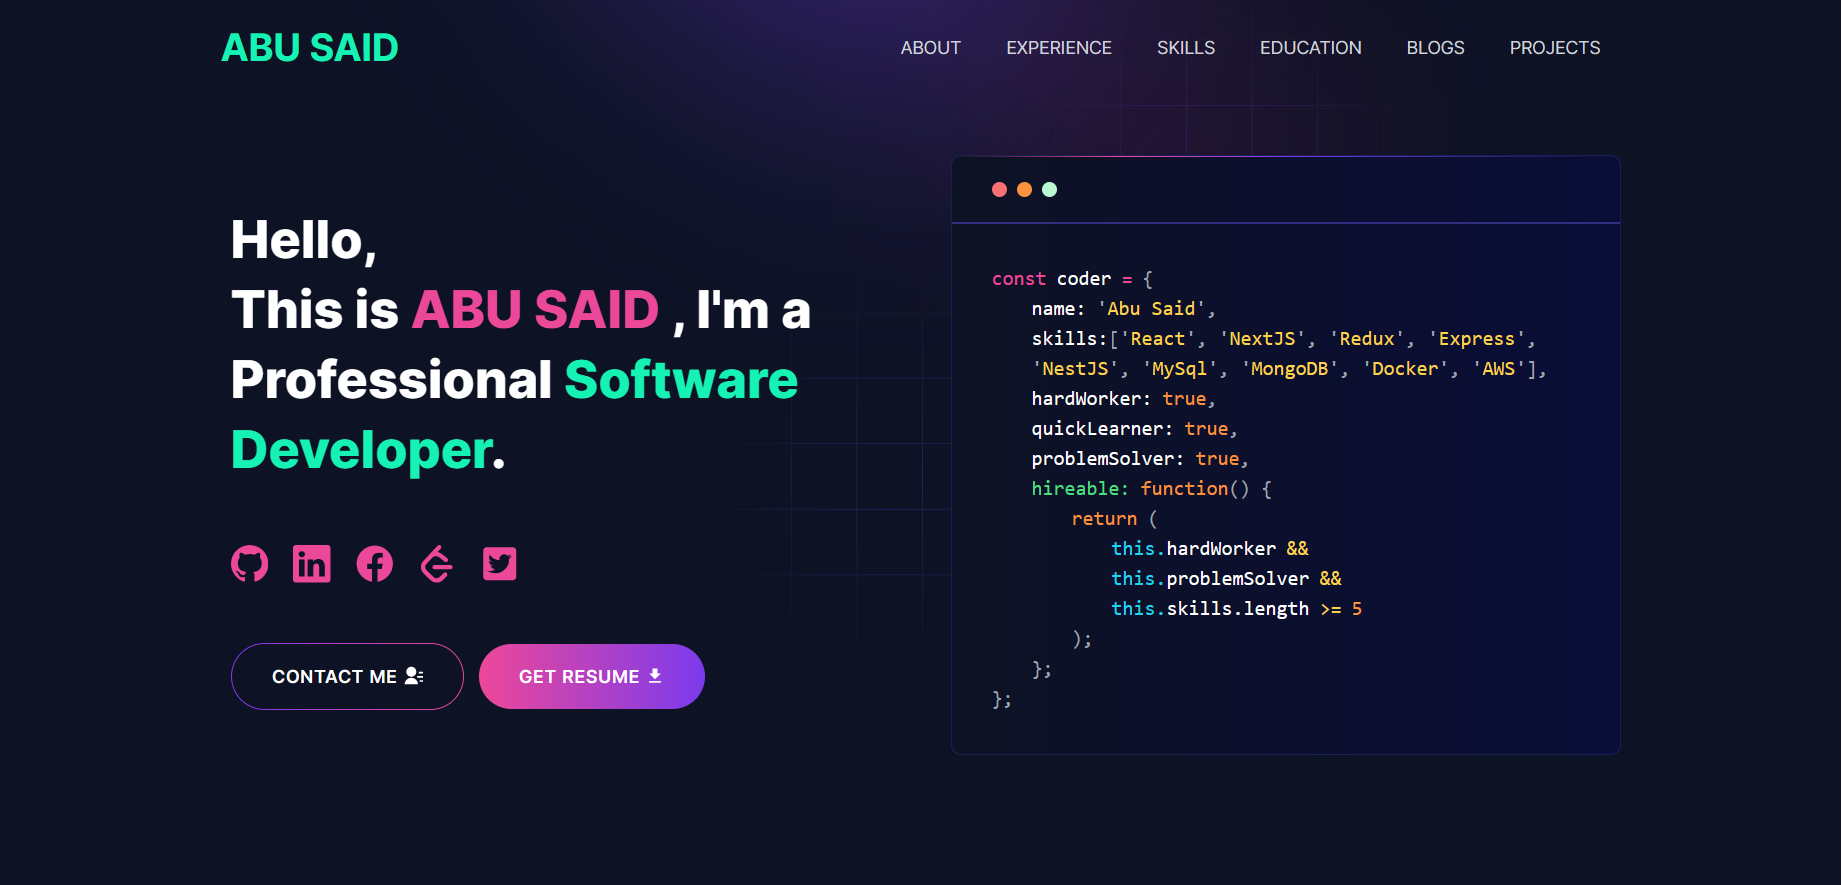
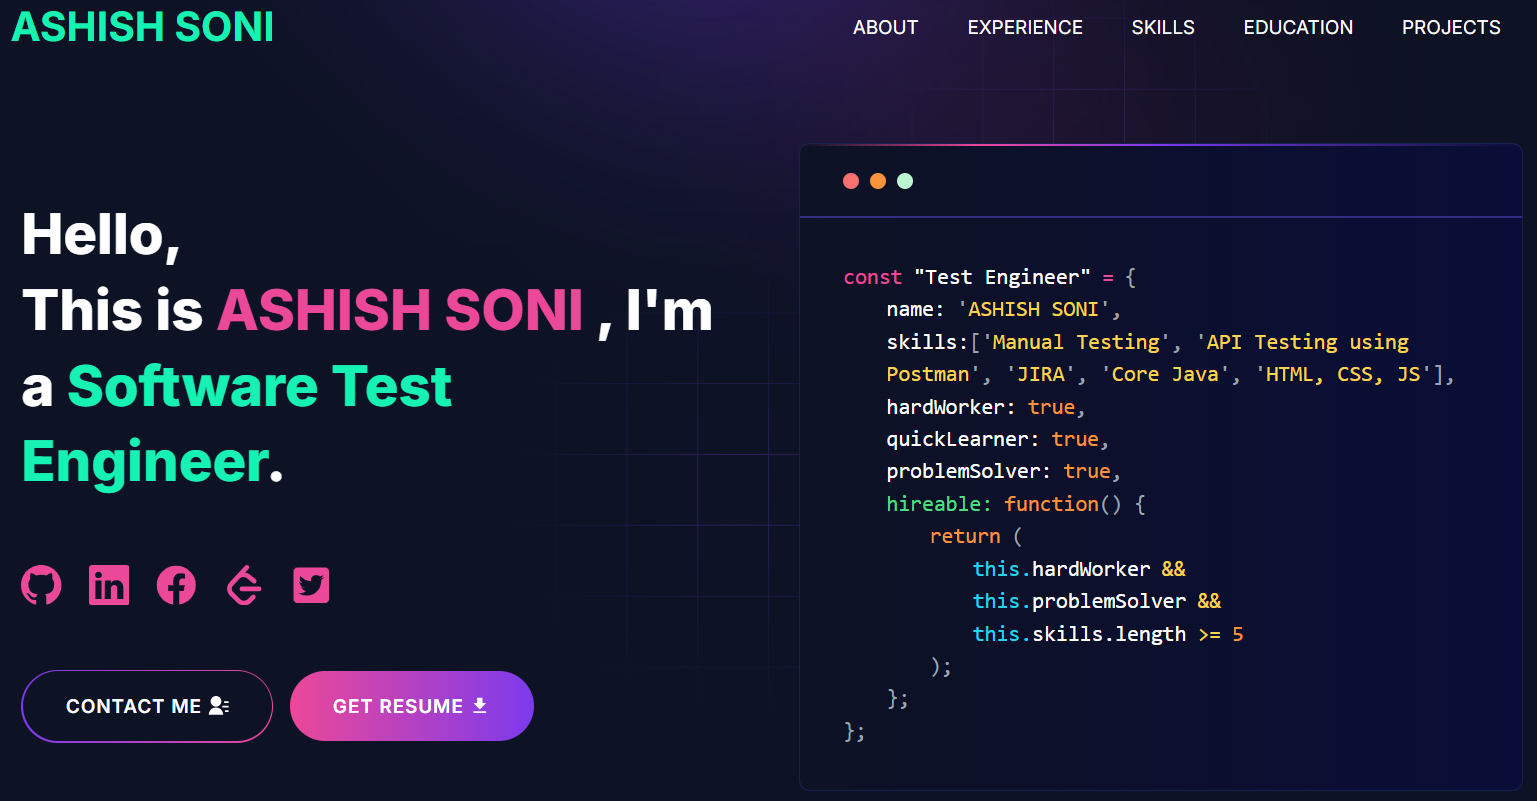
add2

diff --git a/README.md b/README.md
@@ -1,15 +1,7 @@
-<p align="center" width="100%">
-    <img height="100" src="https://github.com/said7388/developer-portfolio/assets/77630868/c0064908-cd5f-4751-a77c-eba90a62b55c">
-</p>
 
----
-# [Built Portfolio With GitHub ](https://github.com/said7388/github-portfolio)
+# My Portfolio
 
----
-
-# Developer Portfolio
-
-### Are you struggling to create a professional portfolio website? Look no further! You can use the Developer Portfolio template and create your very own personalized portfolio today! My website is designed to be user-friendly and easily customizable, making it perfect for both developers and freelancers.
+### Are you struggling to create a professional portfolio website? Look no further! You can use this Portfolio template and create your very own personalized portfolio today! My website is designed to be user-friendly and easily customizable.
 
 ---
 
